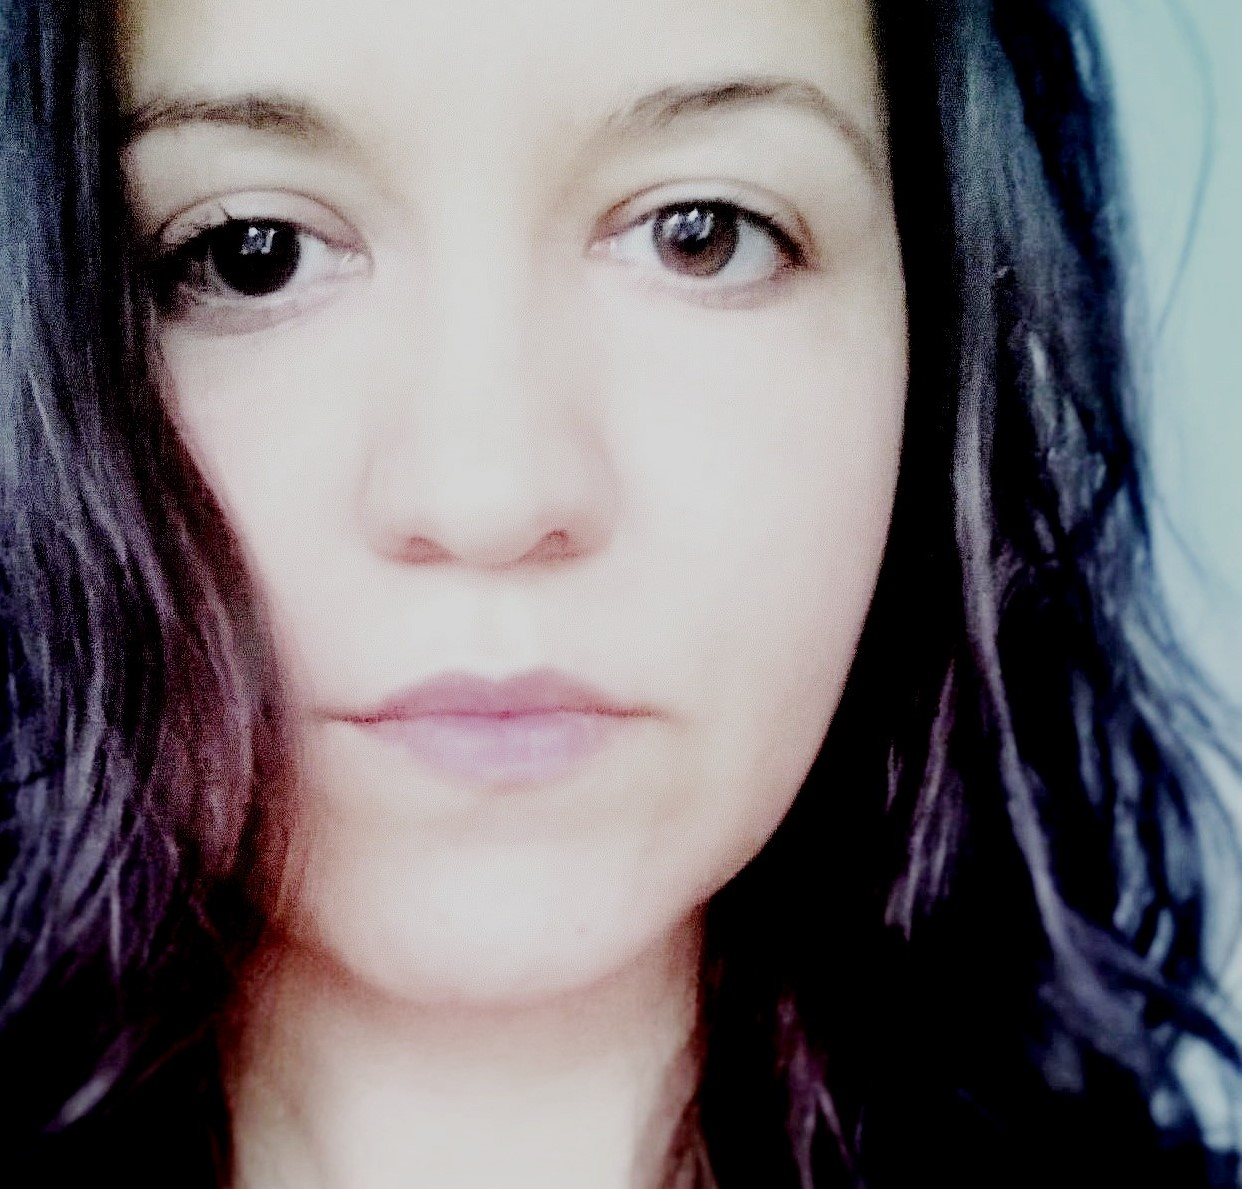
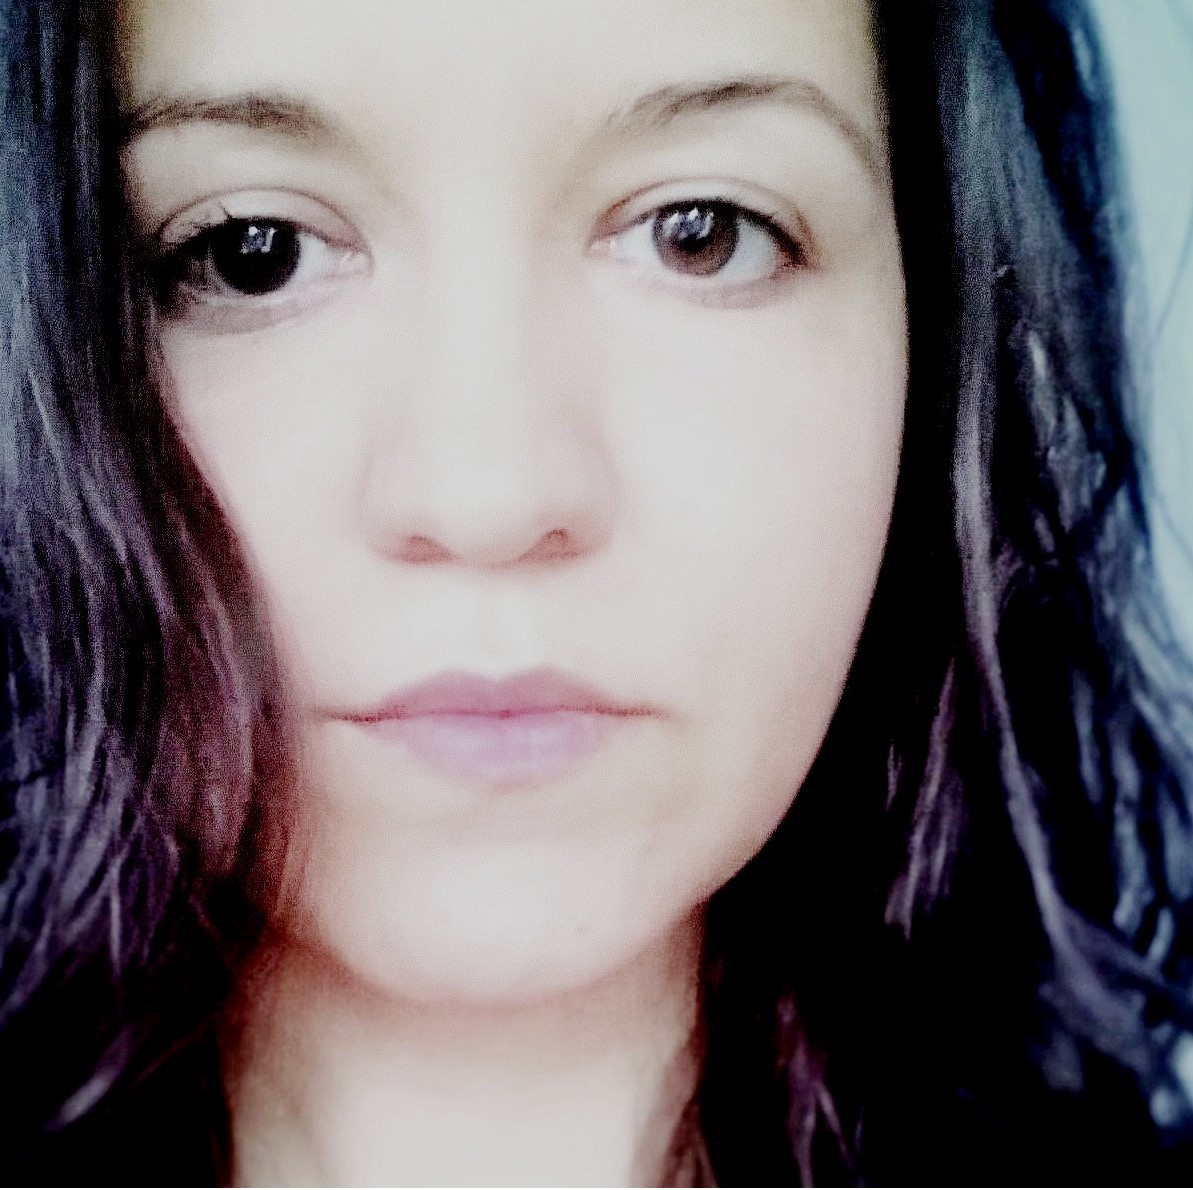
j_ipdate3

diff --git a/people/_posts/2017-12-26-mderda.md b/people/_posts/2017-12-26-mderda.md
@@ -1,9 +1,9 @@
 ---
 layout: post
-title:  "Anna Anzulewicz"
+title:  "Monika Derda"
 date:   2017-12-26 09:00:00
 categories: people
-image-file: /images/people/aanzulewicz.jpg
+image-file: /images/people/mderda.jpg
 category: clab
 mail: monika.derda@gmail.com
 website: 
@@ -13,13 +13,6 @@ researchgate:
 
 PhD student in the Institute of Psychology, Jagiellonian University.
 
-My research focuses on investigating subjective measures of awareness and the nature of transition from unconscious to conscious processing of stimuli.
-
-Research interests:
-- subjective measures of awareness
-- relations between attention and consciousness
-- unconscious cognitive processing
-- attentional control
 
 
     
